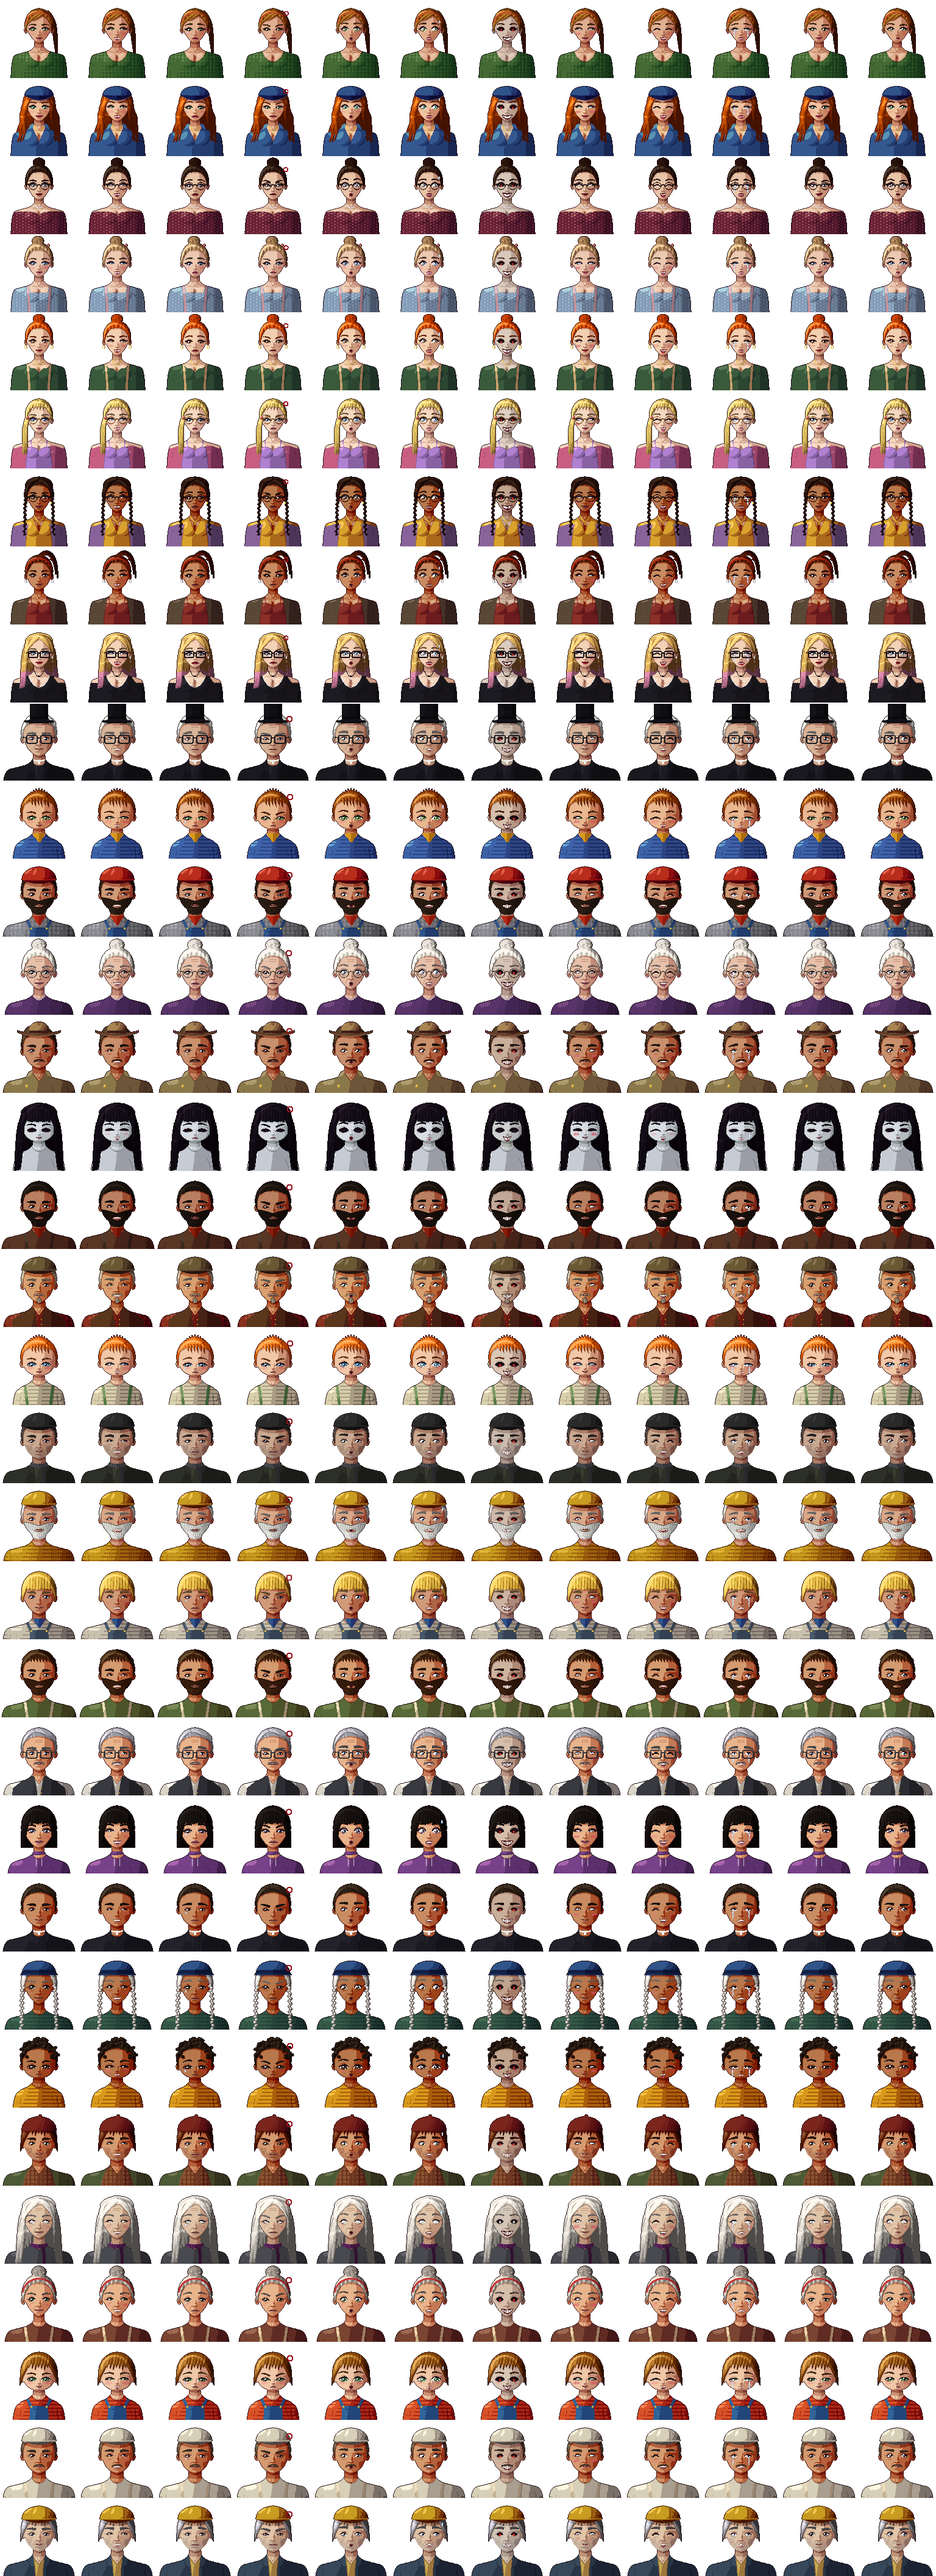
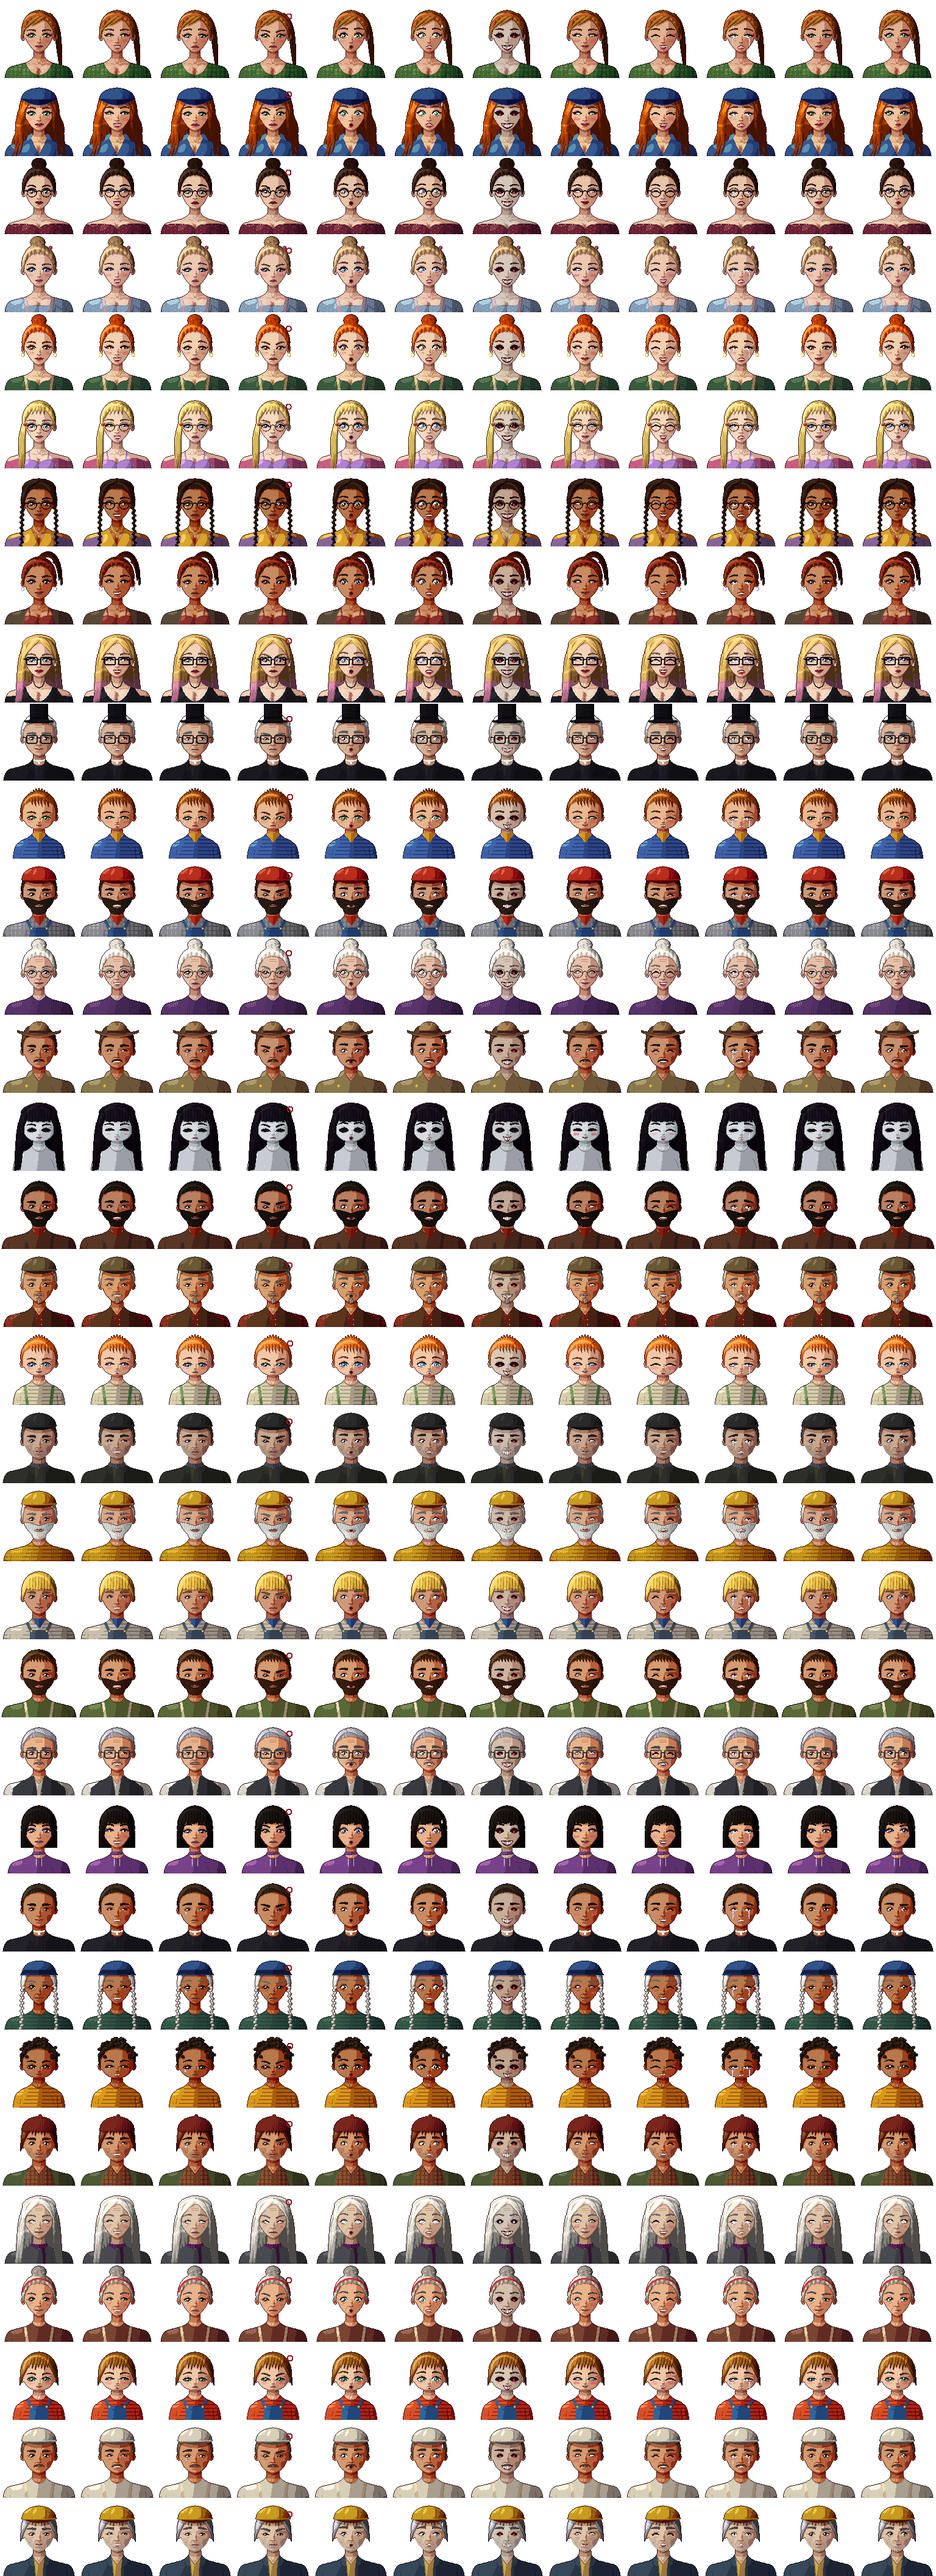
Chat portraits back to how they were
The wider framing and fuller bust on the young adult women's chat
portraits read worse, so the portraits, portrait4.py and chars4.py are
restored to the previous version (byte-identical to the backup in
spr/backup_v1/portraits). The walking sprites keep their new stride and
neckline.

Claude-Session: https://claude.ai/code/session_01P6pGQCq2oe4GSAnTdGYxNB

Changed region(s): [[0.0, 0.0, 1.0, 0.2812]]

diff --git a/hollow-acre/2d/tools/px/portrait4.py b/hollow-acre/2d/tools/px/portrait4.py
@@ -11,13 +11,6 @@ from PIL import Image, ImageDraw
 S = 4; N = 128; NS = N * S
 _yy, _xx = np.mgrid[0:NS, 0:NS]
 X = (_xx + .5) / S; Y = (_yy + .5) / S
-# the view: the young adult women's portraits are framed a little wider (zoomed out from the top of the head) so the neckline
-# and the bust sit inside the frame instead of below it; everyone else keeps the old framing
-VIEW = dict(z=1.0, ty=0.0)
-def set_view(z, ty=0.0):
-    global X, Y
-    VIEW['z'] = z; VIEW['ty'] = ty
-    X = ((_xx + .5) / S - N / 2) * z + N / 2; Y = ((_yy + .5) / S) * z + ty
 LV = np.array([-.5, -.62, .6]); LV = LV / np.linalg.norm(LV)
 
 def hexc(h): h = h.lstrip('#'); return tuple(int(h[i:i + 2], 16) for i in (0, 2, 4))
@@ -52,8 +45,7 @@ def ramp(base, n=6, dark=.36, light=1.32, shade_hue=.98, shade_amt=.22, lit_amt=
 
 # ---------------------------------------------------------------- shapes
 def poly(pts):
-    z, ty = VIEW['z'], VIEW['ty']
-    im = Image.new('L', (NS, NS), 0); ImageDraw.Draw(im).polygon([(((x - N / 2) / z + N / 2) * S, ((y - ty) / z) * S) for x, y in pts], fill=255)
+    im = Image.new('L', (NS, NS), 0); ImageDraw.Draw(im).polygon([(x * S, y * S) for x, y in pts], fill=255)
     return np.asarray(im) > 127
 def ell(cx, cy, rx, ry, rot=0):
     if rot:
@@ -341,7 +333,7 @@ class Painter:
         sw = s.C.get('shoulder', 55.0); o = BO
         nw = s.C.get('neck_w', 8.4)
         tr = bez([(nw + .6, 88 + o), (nw + 5.6, 99 + o), (30, 100 + o), (sw - 9, 105 + o)], 30)
-        dl = bez([(sw - 9, 105 + o), (sw - 3, 107.5 + o), (sw + 1, 114 + o), (sw + 2, 166)], 20)   # runs past the bottom of any view
+        dl = bez([(sw - 9, 105 + o), (sw - 3, 107.5 + o), (sw + 1, 114 + o), (sw + 2, max(129 + o, 132))], 20)
         half = np.vstack([tr, dl])
         R = [(CX + x, y) for x, y in half]; L = [(CX - x, y) for x, y in half[::-1]]
         return L + R
@@ -369,7 +361,7 @@ class Painter:
     def bust(s):
         """young adult women: the bust under the neckline, lit as two soft forms"""
         C, cv = s.C, s.cv
-        b = C.get('bust', 16.4); cy = C.get('bust_y', 117.0) + BO; sep = C.get('bust_sep', 12.9)
+        b = C.get('bust', 15.2); cy = C.get('bust_y', 117.0) + BO; sep = C.get('bust_sep', 12.9)
         bl = []; bm = []
         for sg in (-1, 1):
             m = ell(CX + sg * sep, cy, b, b * .94); bm.append(m)
@@ -479,8 +471,8 @@ class Painter:
         tor = poly(s.torso_poly())
         if kind in ('cardigan', 'jacket'):
             for sg in (-1, 1):
-                inner = bez([(CX + sg * 13, 88 + o), (CX + sg * 19.5, 100 + o), (CX + sg * 25, 113 + o), (CX + sg * 28, 166)], 30)
-                pts = [(x, y) for x, y in inner] + [(CX + sg * (sw + 4), 166), (CX + sg * (sw + 4), 86 + o)]
+                inner = bez([(CX + sg * 13, 88 + o), (CX + sg * 19.5, 100 + o), (CX + sg * 25, 113 + o), (CX + sg * 28, max(129 + o, 132))], 30)
+                pts = [(x, y) for x, y in inner] + [(CX + sg * (sw + 4), max(129 + o, 132)), (CX + sg * (sw + 4), 86 + o)]
                 m = poly(pts) & tor
                 if C.get('cardi_off'): m &= Y > (107 + o + 5 * sstep(30, 50, np.abs(X - CX)))
                 lit = .58 - .2 * (X - CX) / 55 - .1 * sstep(40, 58, np.abs(X - CX)) + .06 * G(CX - 34, 104 + o, 12, 5)
@@ -504,7 +496,7 @@ class Painter:
                 cv.add(shift(col, 0, 1.0) & ~col & tor, 'top', -.15)
         if kind == 'apron':
             for sg in (-1, 1):
-                st = stroke(bez([(CX + sg * 24, 92 + o), (CX + sg * 21.5, 108 + o), (CX + sg * 18.5, 166)], 20), [4.2, 4.2, 4.6])
+                st = stroke(bez([(CX + sg * 24, 92 + o), (CX + sg * 21.5, 108 + o), (CX + sg * 18.5, max(129 + o, 132))], 20), [4.2, 4.2, 4.6])
                 cv.put(st & tor, 'top2', .66 - .12 * sg)
                 cv.add(shift(st, sg * .9, 0) & ~st & tor, 'top', -.12)
 
@@ -1184,6 +1176,4 @@ class Painter:
         img = outline(img, bid, s.pal)
         return img
 
-def portrait(C, ex, var='day'):
-    set_view(1.22 if C.get('allure') else 1.0, 0.0)
-    return Painter(C, ex, var).paint()
+def portrait(C, ex, var='day'): return Painter(C, ex, var).paint()

diff --git a/hollow-acre/2d/tools/px/chars4.py b/hollow-acre/2d/tools/px/chars4.py
@@ -25,7 +25,7 @@ CH = {
   # Caitlyn (the shopkeeper; her id stays 'mae' so saves keep working): black tank top with a white trim edge, as in her photos
   'mae': dict(skin='#f3d2b8', hair='#e2c27e', tip='#e58fb0', tip_y=92, tip_t=.7, eye='#6a8aa4', lip='#b8303e', style='long', part=1.5, tuck=1,
               glasses='square', frame='#16121a', earrings='stars', metal='#d8dce4', necklace='cord', cord='#141216', top='#1e1c22', top3='#e6e2e8',
-              neck='tank', trim=1, trim_w=.9, bust=16.6, freckles=9, makeup='#7a6070', wing=1.4, lash_w=1.15, blush=.55, allure=1,
+              neck='tank', trim=1, trim_w=.9, bust=15.8, freckles=9, makeup='#7a6070', wing=1.4, lash_w=1.15, blush=.55, allure=1,
               face_w=25.0, chin=86, jaw_q=.5, eye_a=6.2, tilt=.9, iris=4.0, lip_w=6.8, lip_lo=3.1, seed=31),
 }
 
